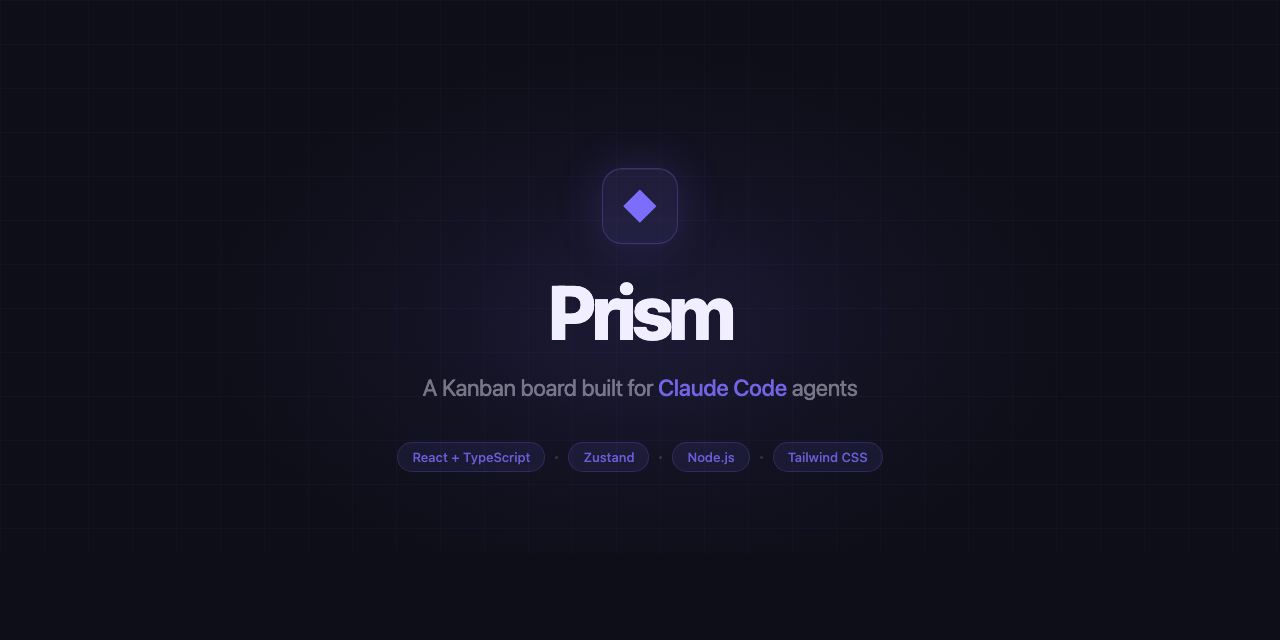
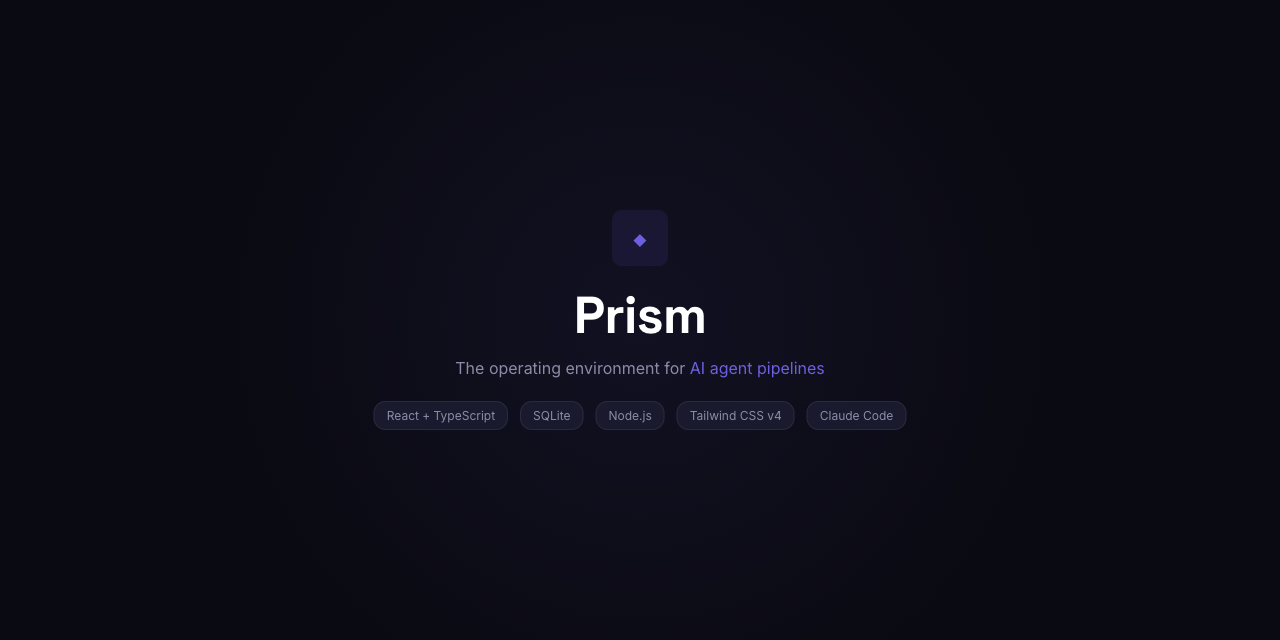
chore: bump version to 0.5.0-beta (#57)
* chore: bump version badge to 0.5.0-beta

* docs: refresh README — SQLite, global search, tighter copy

* docs: replace banner with updated version (SQLite + Claude Code badges, ◆ icon)

diff --git a/README.md b/README.md
@@ -1,11 +1,11 @@
 # Prism
 
 [![CI](https://github.com/oscarmenendezgarcia/prism/actions/workflows/ci.yml/badge.svg)](https://github.com/oscarmenendezgarcia/prism/actions/workflows/ci.yml)
-![version](https://img.shields.io/badge/version-0.3.0--beta-blue)
+![version](https://img.shields.io/badge/version-0.5.0--beta-blue)
 
 ![Prism](docs/banner.png)
 
-Prism gives your AI pipelines a place to work. Agents create tasks, move them across columns, write to an embedded terminal, and stream live logs — all from a single interface you can run locally or in Docker.
+Prism is the operating environment for AI agent pipelines. Agents create tasks, move them across a Kanban board, write to an embedded terminal, and stream live logs — all from a single interface you run locally or in Docker.
 
 ![Prism demo](docs/prism-demo.gif)
 
@@ -13,14 +13,16 @@ Prism gives your AI pipelines a place to work. Agents create tasks, move them ac
 
 ## What it does
 
-Most Kanban tools are built for humans to track human work. Prism is different: it's designed as the **operating environment for AI agent pipelines**.
+Most Kanban tools are built for humans tracking human work. Prism is built for agents.
 
 - **Agents manage the board** — via MCP tools, Claude Code agents create tasks, update status, and attach artifacts as they work
 - **Run pipelines from any task** — one click launches a multi-stage pipeline (architect → UX → developer → QA) against a task card
+- **Global task search** — ⌘K / Ctrl+K to search across all spaces instantly, powered by SQLite FTS5
 - **Live log viewer** — stream stage-by-stage output in real time as each agent runs
-- **Embedded terminal** — full PTY shell inside the UI, useful for monitoring agent sessions
+- **Embedded terminal** — full PTY shell inside the UI for monitoring agent sessions
 - **Multiple spaces** — organise work across projects, each with its own board and pipeline config
 - **Auto-task generation** — describe a feature in natural language; Prism generates structured task cards via Claude
+- **Durable SQLite persistence** — all board state lives in a single `prism.db` file; no external database required
 
 ---
 
@@ -39,7 +41,7 @@ docker compose up -d
 # → http://localhost:3000
 ```
 
-No Node.js or build tools required locally. Board data persists in `./data/prism.db` (SQLite).
+No Node.js or build tools required locally. Board data persists in `./data/prism.db`.
 
 The board works without an API key. To enable agent pipelines, set `ANTHROPIC_API_KEY`:
 
@@ -59,27 +61,27 @@ The Docker image ships with **Claude Code** (`claude`) installed globally:
 docker compose exec prism claude --version
 ```
 
-This is the CLI that agent pipelines use when they run inside the container. No extra setup is needed — `ANTHROPIC_API_KEY` is forwarded from your host environment via `docker-compose.yml`.
+This is the CLI that agent pipelines use when they run inside the container. No extra setup needed — `ANTHROPIC_API_KEY` is forwarded from your host environment via `docker-compose.yml`.
 
 > **Want to use `opencode` instead?**  
 > `opencode` is not pre-installed, but you can add it by extending the Dockerfile:
 >
 > ```dockerfile
-> FROM ghcr.io/oscarmenendezgarcia/prism:latest   # or use build: . locally
+> FROM ghcr.io/oscarmenendezgarcia/prism:latest
 > RUN npm install -g opencode
 > ```
 >
-> Rebuild with `docker compose build`. Note that Prism's prompt-generation layer has partial support for `opencode`-style invocations; behaviour may differ from the Claude Code path.
+> Rebuild with `docker compose build`. Prism's prompt-generation layer has partial support for `opencode`-style invocations; behaviour may differ from the Claude Code path.
 
 ---
 
 ### Giving agents access to your project repos
 
-Agents that write code need to read and modify files on disk. There are two approaches:
+Agents that write code need to read and modify files on disk. Two options:
 
 #### Option A — Mount a volume (recommended for Docker)
 
-Add one extra volume entry per project in `docker-compose.yml`:
+Add a volume entry per project in `docker-compose.yml`:
 
 ```yaml
 services:
@@ -89,9 +91,7 @@ services:
       - /home/user/myproject:/workspace/myproject     # ← your repo
 ```
 
-Inside the container the project lives at `/workspace/myproject`. When you configure a **Space** in Prism, set its *Working Directory* to that same path so pipeline agents work in the right place.
-
-You can mount as many projects as you need:
+Set the Space's *Working Directory* to `/workspace/myproject` so pipeline agents work in the right place. Mount as many projects as needed:
 
 ```yaml
       - /home/user/projectA:/workspace/projectA
@@ -100,7 +100,7 @@ You can mount as many projects as you need:
 
 #### Option B — Run Prism locally (without Docker)
 
-If you prefer direct host filesystem access with no volume mapping or path translation, run Prism natively:
+For direct host filesystem access with no volume mapping:
 
 ```bash
 npm install
@@ -108,7 +108,7 @@ cd frontend && npm install && npm run build && cd ..
 ANTHROPIC_API_KEY=sk-... node server.js
 ```
 
-Agents launched from a Space whose *Working Directory* is an absolute host path (e.g. `/Users/alice/myproject`) have full, native access to those files with no extra configuration.
+Agents launched from a Space whose *Working Directory* points to an absolute host path have full, native access to those files.
 
 ---
 
@@ -158,7 +158,7 @@ Available tools: `kanban_list_tasks`, `kanban_create_task`, `kanban_update_task`
 
 ## Running locally (without Docker)
 
-**Prerequisites:** Node.js ≥ 18 and build tools for `node-pty`:
+**Prerequisites:** Node.js ≥ 18 and native build tools for `better-sqlite3` and `node-pty`:
 
 | OS | Command |
 |----|---------|
@@ -174,7 +174,7 @@ node server.js
 # → http://localhost:3000
 ```
 
-**Development mode** (with HMR):
+**Development mode** (Vite HMR):
 
 ```bash
 node server.js &
@@ -185,13 +185,11 @@ cd frontend && npm run dev   # → http://localhost:5173
 
 ## Parallel pipeline runs — git worktree isolation
 
-When two pipeline runs target the **same working directory**, they could race on git operations (checkouts, commits, rebases). Prism automatically provisions an isolated git worktree for each conflicting run so they never interfere.
+When two pipeline runs target the **same working directory**, Prism automatically provisions an isolated git worktree for each conflicting run so they never interfere.
 
-### How it works
-
-- **Solo run** — the first run on a directory works directly in the main checkout. No worktree is created. Fully backward compatible.
-- **Concurrent run** — any subsequent run that starts while another is still active in the same directory gets its own worktree at `.worktrees/run-<short-runId>`, branched off the current HEAD as `pipeline/run-<short-runId>`.
-- **Cleanup** — worktrees are removed automatically when a run reaches a terminal state (`completed`, `failed`, `interrupted`, `aborted`). Orphaned worktrees (no matching run) are reaped on the next server startup.
+- **Solo run** — works directly in the main checkout. No worktree created.
+- **Concurrent run** — gets its own worktree at `.worktrees/run-<short-runId>`, branched off current HEAD.
+- **Cleanup** — worktrees are removed automatically when a run reaches a terminal state (`completed`, `failed`, `interrupted`, `aborted`). Orphaned worktrees are reaped on the next server startup.
 
 ### Branch naming
 
@@ -199,13 +197,7 @@ When two pipeline runs target the **same working directory**, they could race on
 pipeline/run-<first-8-chars-of-runId>
 ```
 
-The worktree lives at:
-
-```
-<space-workingDirectory>/.worktrees/run-<first-8-chars-of-runId>
-```
-
-Both paths are in `.gitignore` and are never committed to the main repo.
+Both the worktree path and branch are in `.gitignore` and are never committed to the main repo.
 
 ### Environment variables
 
@@ -213,9 +205,7 @@ Both paths are in `.gitignore` and are never committed to the main repo.
 |----------|---------|-------------|
 | `PIPELINE_WORKTREE_ENABLED` | `1` | Set to `0` to disable worktree provisioning entirely |
 | `PIPELINE_WORKTREE_DIR` | `.worktrees` | Subdirectory under the space working directory |
-| `PIPELINE_DELETE_BRANCH_ON_FAILURE` | `0` | Set to `1` to delete the `pipeline/run-*` branch when a run fails or is aborted |
-
-> See `agent-docs/parallel-worktrees/ADR-1.md` for the full design rationale.
+| `PIPELINE_DELETE_BRANCH_ON_FAILURE` | `0` | Set to `1` to delete the `pipeline/run-*` branch on failure or abort |
 
 ---
 
@@ -241,7 +231,7 @@ cd frontend && npm test         # Frontend (Vitest + React Testing Library)
 
 ## Stack
 
-Node.js (no framework) · React 19 · TypeScript · Tailwind CSS v4 · Vite · Zustand · better-sqlite3 · node-pty
+Node.js (no framework) · React 19 · TypeScript · Tailwind CSS v4 · Vite · Zustand · SQLite (better-sqlite3) · node-pty
 
 ---
 
